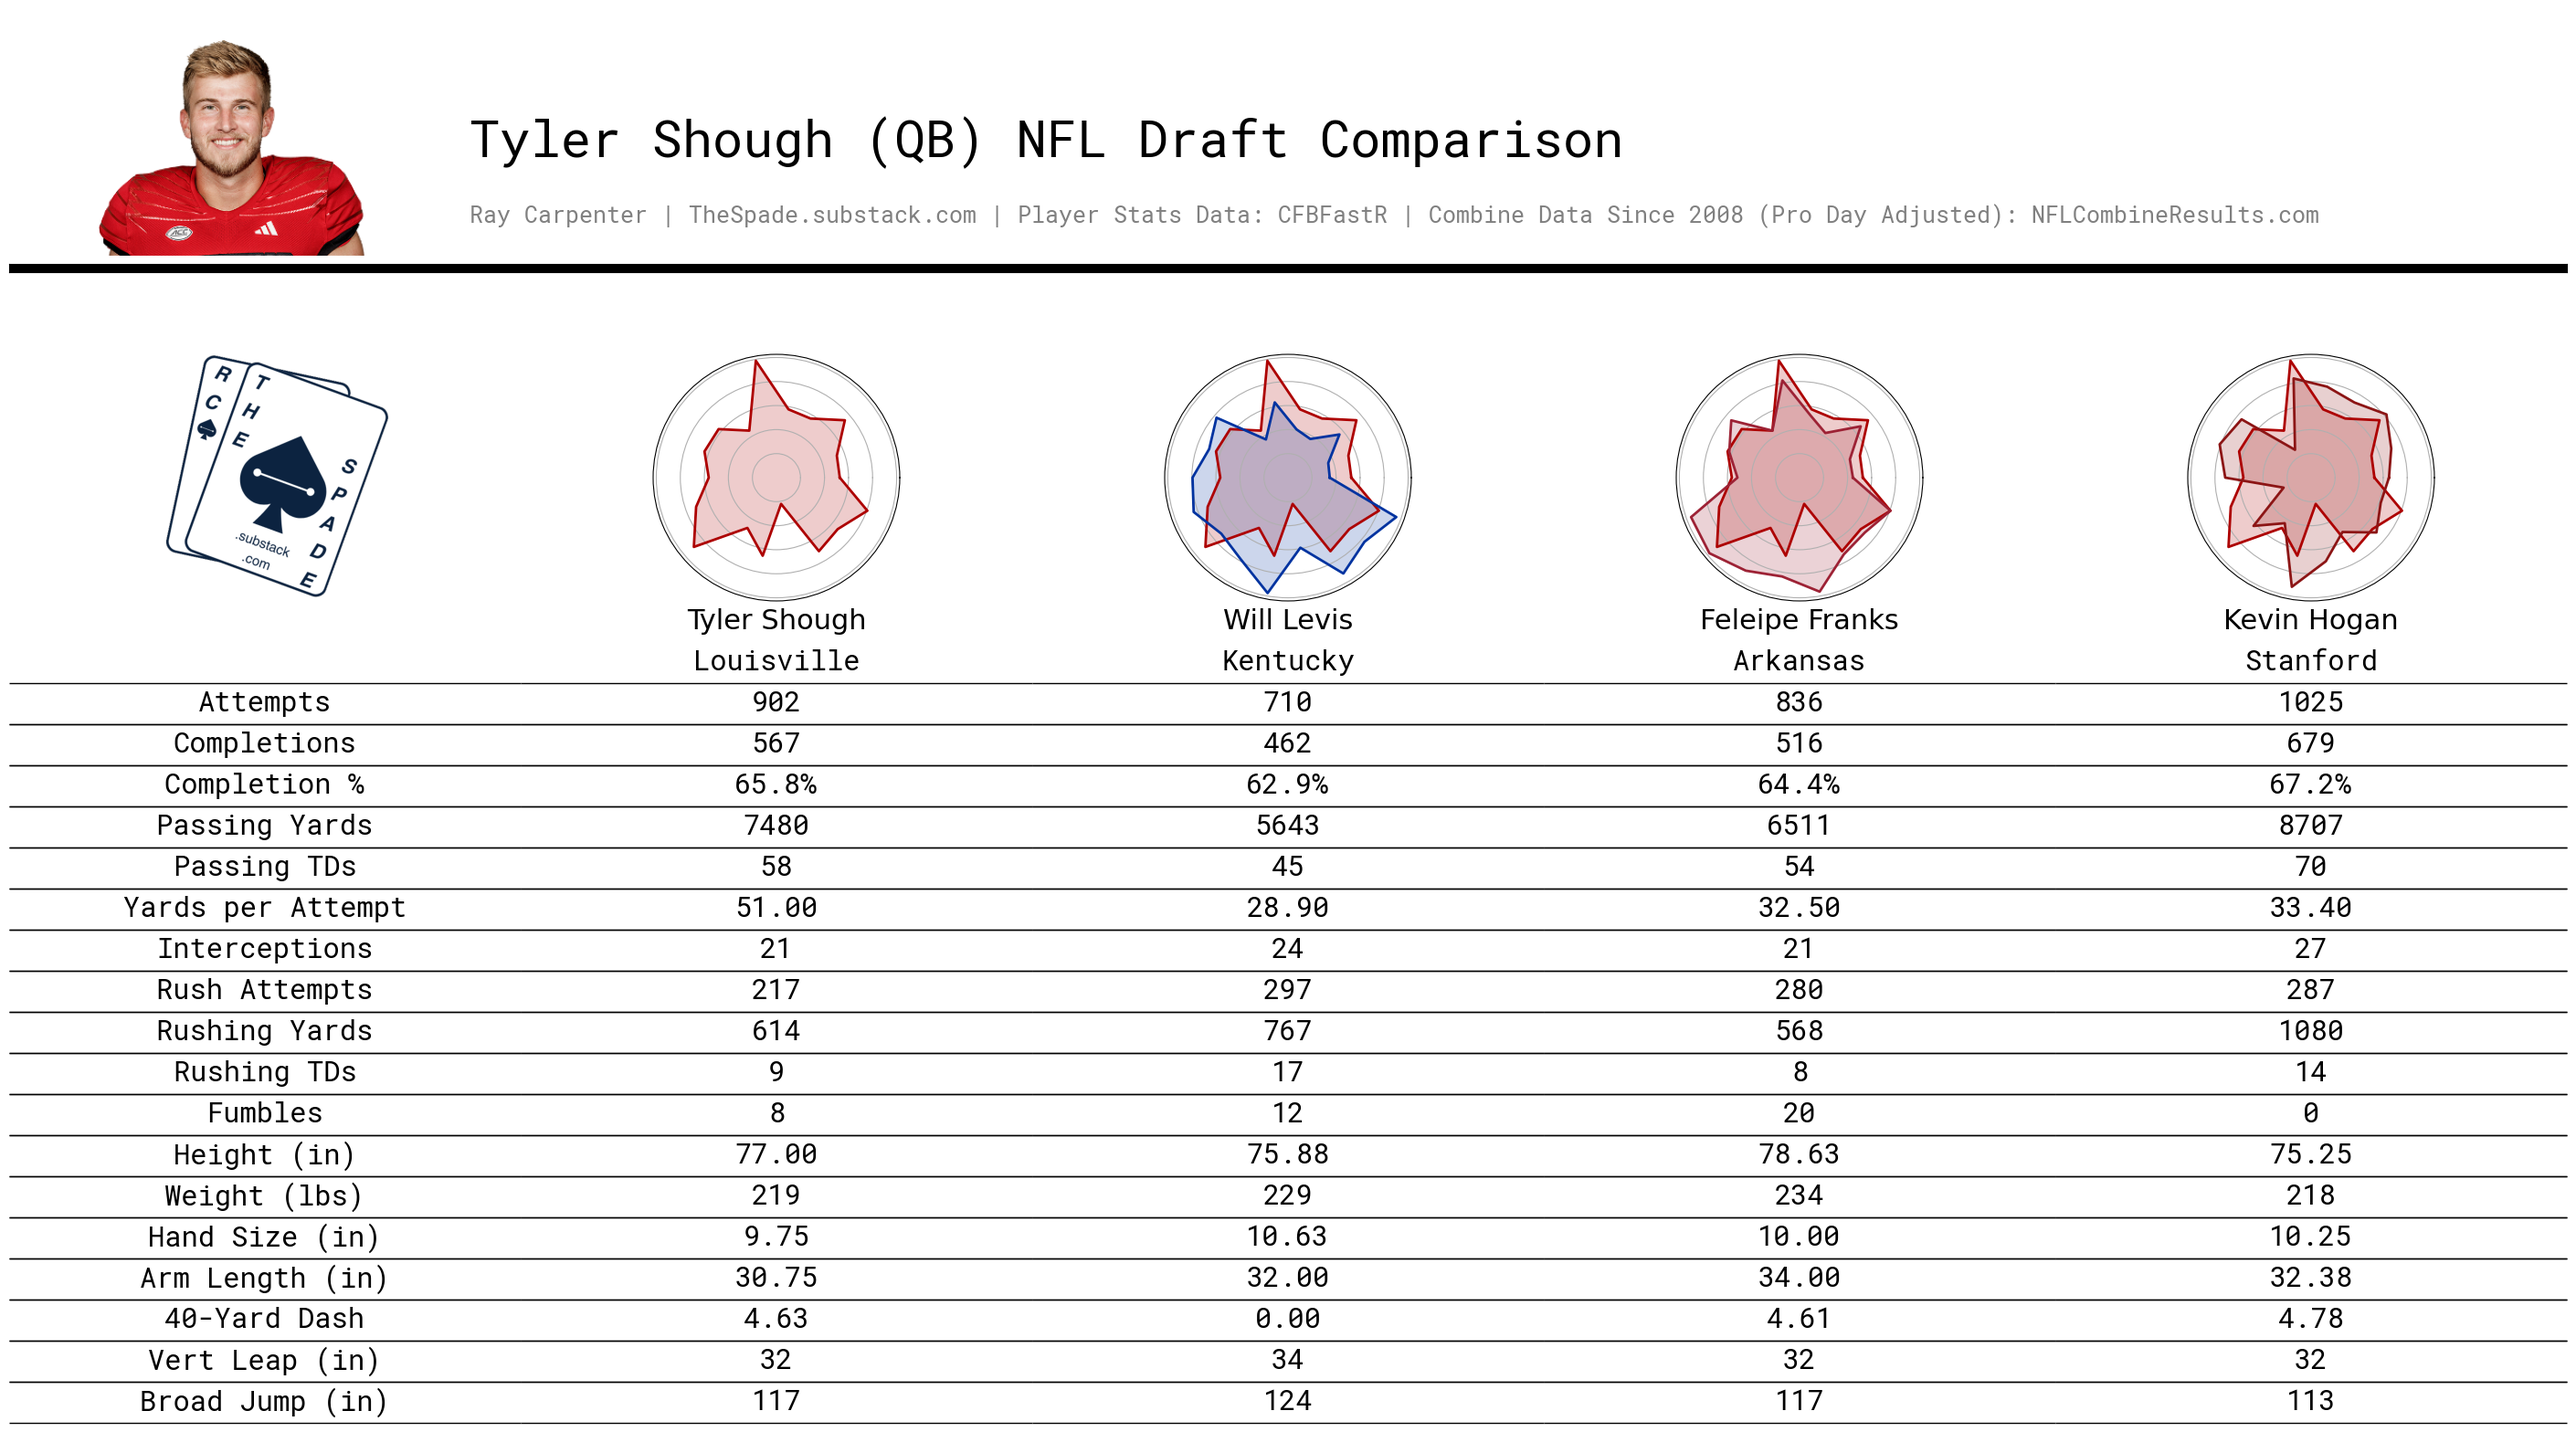
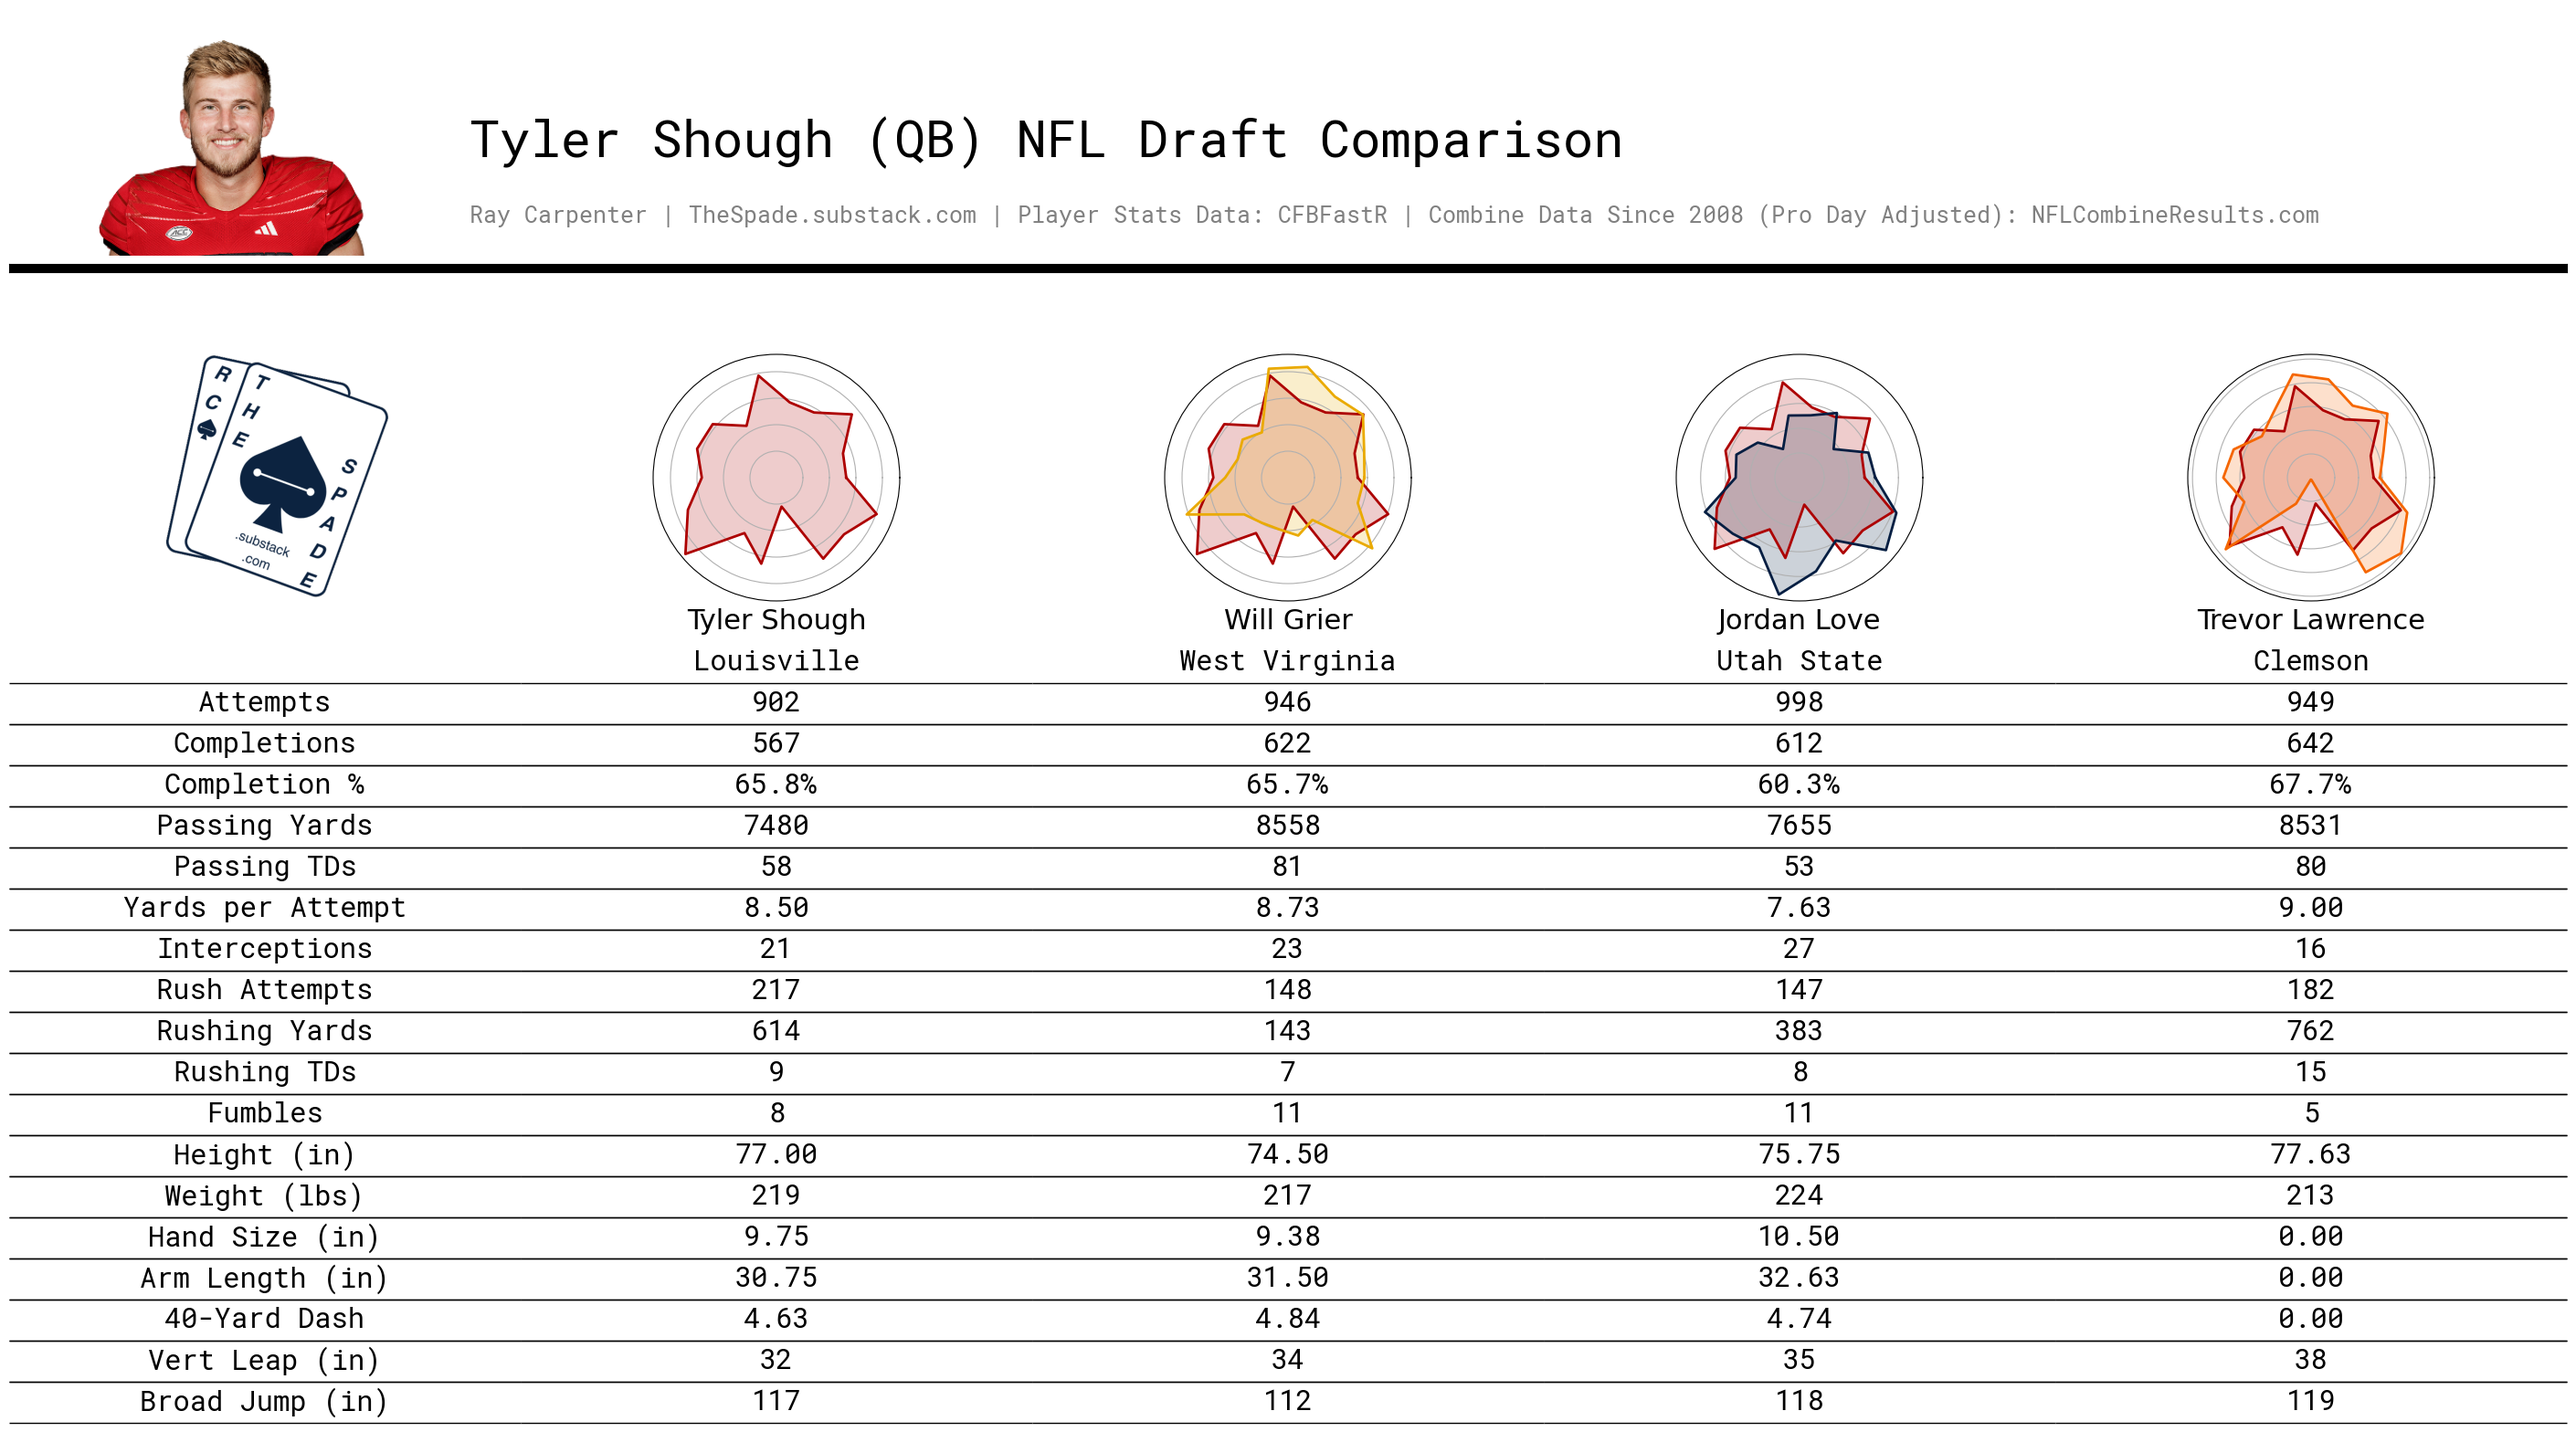
Y/A hotfix

diff --git a/data_processor.py b/data_processor.py
@@ -17,8 +17,7 @@ class DataProcessor:
         self.radar_data = None
         self.valid_metrics = None
         self.player_position = None
-        # Specify combine metrics that should retain their decimal precision in display.
-        self.non_round_metrics = ["Height (in)", "Hand Size (in)", "Arm Length (in)","40 Yard","3Cone","Shuttle"]
+        self.non_round_metrics = ["Height (in)", "Hand Size (in)", "Arm Length (in)", "40 Yard","3Cone","Shuttle"]
 
     def process(self, input_player: str):
         combine_columns = [
@@ -68,12 +67,18 @@ class DataProcessor:
             if stat in df.columns:
                 df[stat] = pd.to_numeric(df[stat], errors="coerce")
         numeric_cols = df.select_dtypes(include="number").columns.tolist()
+
         agg_funcs = {col: "sum" for col in numeric_cols if col not in combine_columns}
+
         if "interceptions_avg" in agg_funcs:
             agg_funcs["interceptions_avg"] = "mean"
+        if "passing_ypa" in agg_funcs:
+            agg_funcs["passing_ypa"] = "mean"
+
         for stat in combine_columns:
             if stat in df.columns:
                 agg_funcs[stat] = "first"
+
         df_sum = df.groupby("player").agg(agg_funcs).reset_index()
 
         if "passing_pct" in df.columns:
@@ -101,7 +106,6 @@ class DataProcessor:
         self.processed_df = df_sum
         self.valid_metrics = valid_metrics
        
-
         reverse_metrics = {"passing_int", "40 Yard", "3Cone", "Shuttle","Fumbles"}
         self.percentile_df = df_sum.copy()
         for metric in valid_metrics:
